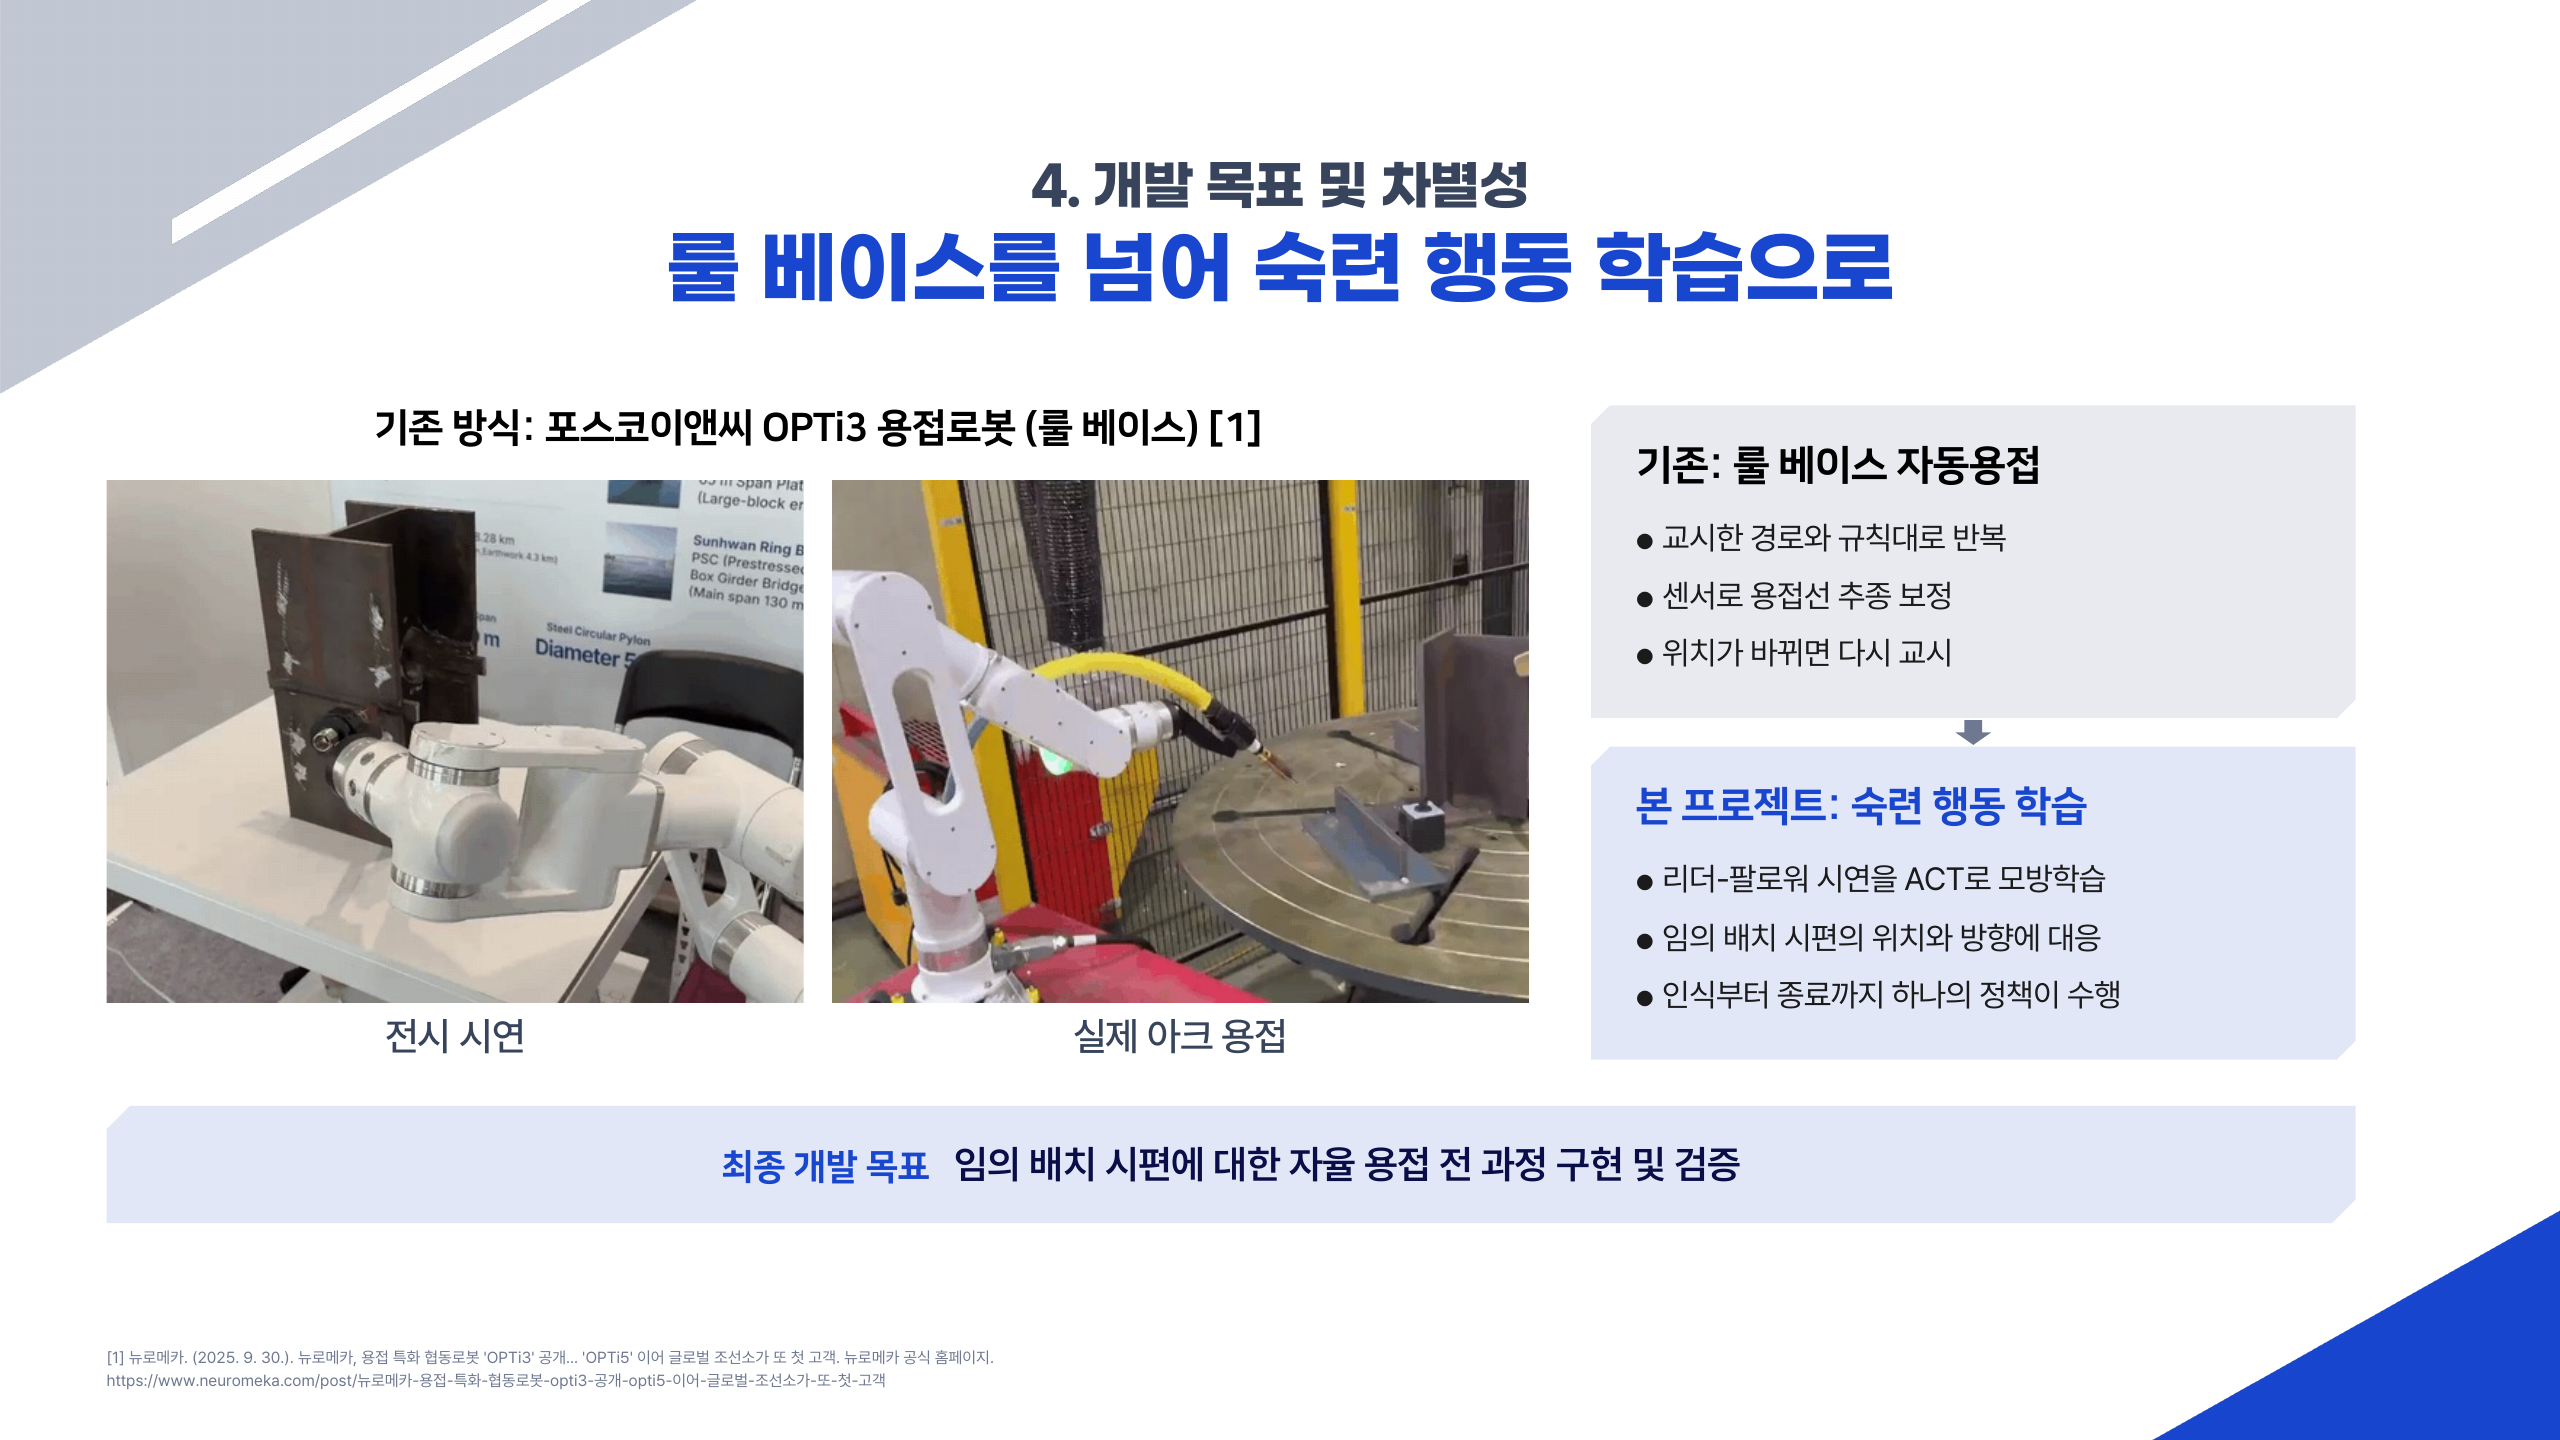
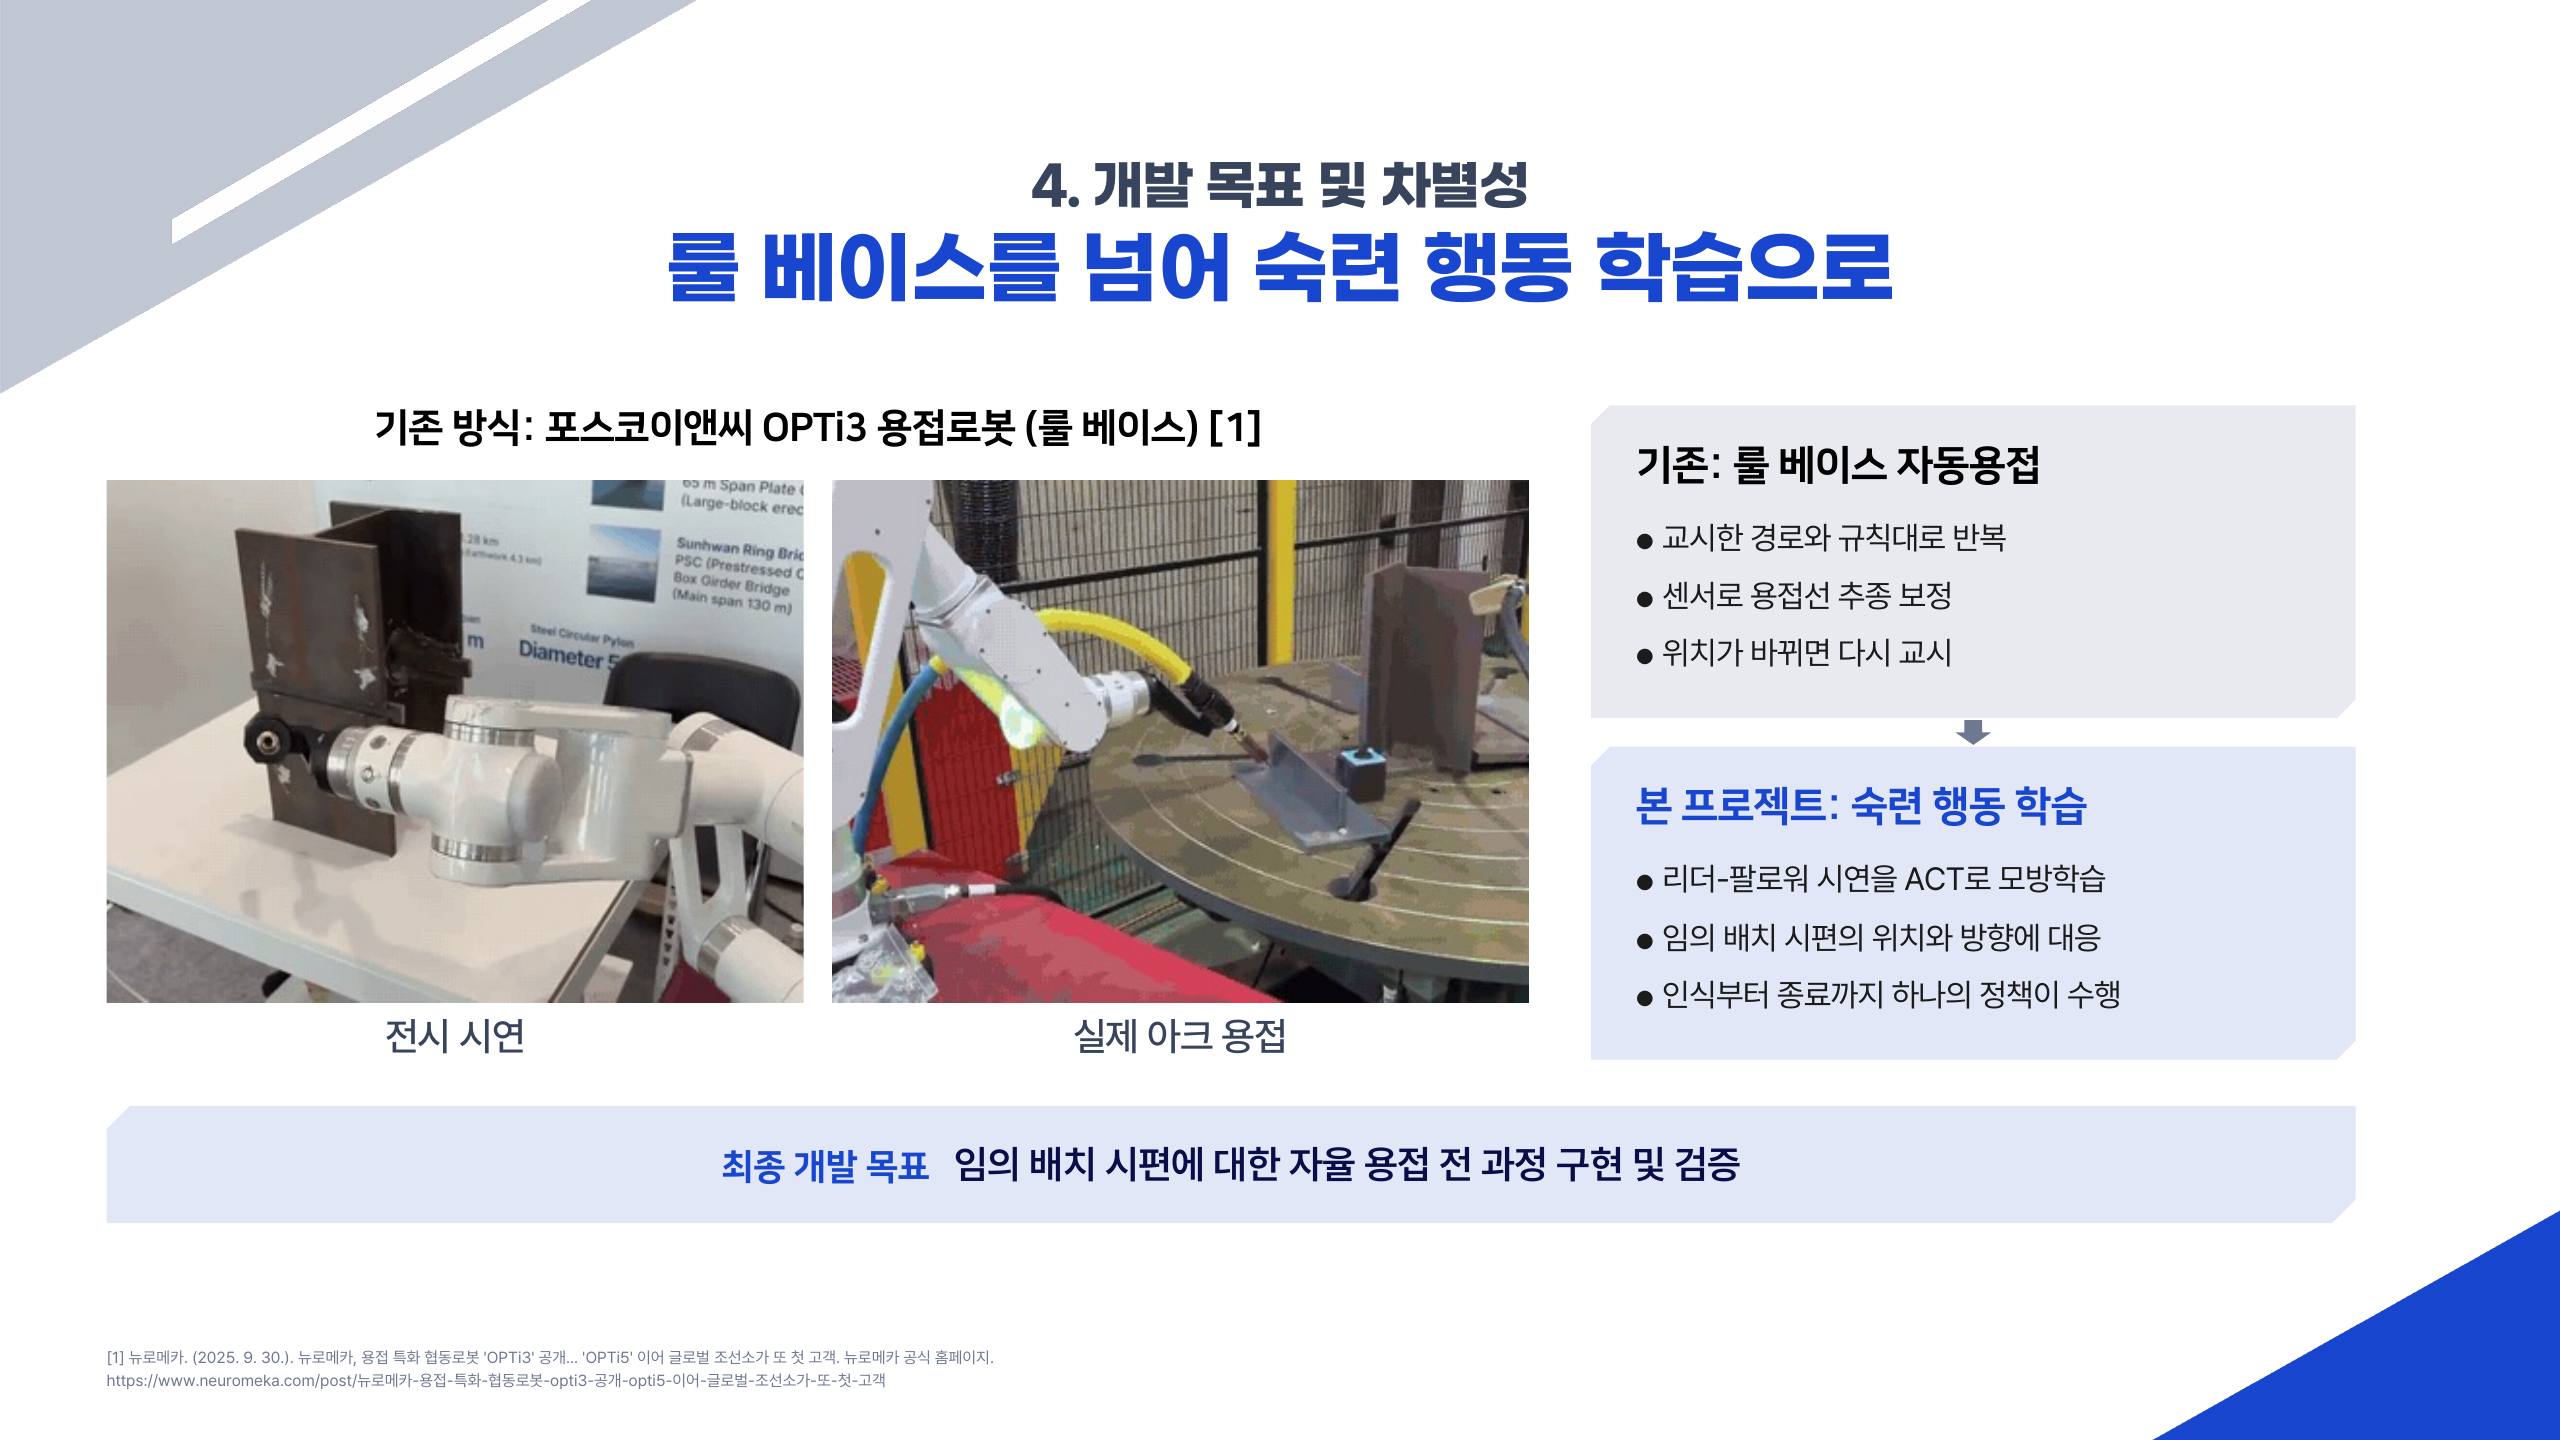
6장 OPTi3 GIF를 영상 6초~20초 구간으로 교체

Changed region(s): [[0.0312, 0.3125, 0.625, 0.7188], [0.0312, 0.5938, 0.0938, 0.6562]]

diff --git a/index.html b/index.html
@@ -49,9 +49,9 @@
   <img class="slide" src="deck/final/05.png" alt="3. 프로젝트 수행 필요성: 숙련 기술의 계승과 비정형 환경 대응을 위한 자율용접 기술의 필요성" loading="lazy">
   <div class="slide">
     <img src="deck/final/06.png" alt="4. 개발 목표 및 차별성: 룰 베이스를 넘어 숙련 행동 학습으로. OPTi3 용접로봇 전시 시연과 실제 아크 용접 영상, 기존 룰 베이스와 본 프로젝트 비교, 최종 개발 목표" loading="lazy">
-    <!-- PPT 6장 영상 자리(x 60/468, y 270, 392×294pt / 1440×810pt)에 맞춰 올린 앞 6초 GIF -->
-    <img class="clip" style="left:4.1667%; top:33.333%; width:27.222%; height:36.296%;" src="deck/img/opti3_demo.gif" alt="OPTi3 전시 시연 앞 6초" loading="lazy">
-    <img class="clip" style="left:32.5%; top:33.333%; width:27.222%; height:36.296%;" src="deck/img/opti3_arc.gif" alt="OPTi3 실제 아크 용접 앞 6초" loading="lazy">
+    <!-- PPT 6장 영상 자리(x 60/468, y 270, 392×294pt / 1440×810pt)에 맞춰 올린 6초~20초 구간 GIF -->
+    <img class="clip" style="left:4.1667%; top:33.333%; width:27.222%; height:36.296%;" src="deck/img/opti3_demo.gif" alt="OPTi3 전시 시연 6초에서 20초 구간" loading="lazy">
+    <img class="clip" style="left:32.5%; top:33.333%; width:27.222%; height:36.296%;" src="deck/img/opti3_arc.gif" alt="OPTi3 실제 아크 용접 6초에서 20초 구간" loading="lazy">
   </div>
   <img class="slide" src="deck/final/07.png" alt="5. 개발 대상 및 자율 작업 시나리오: 수평 접합선에 대응하는 자율용접 작업 구현. 3면 직각 시편과 T형 필릿 시편" loading="lazy">
   <img class="slide" src="deck/final/08.png" alt="6. 시스템 구성 및 하드웨어 설계: 자율용접 로봇 시스템 아키텍처" loading="lazy">
